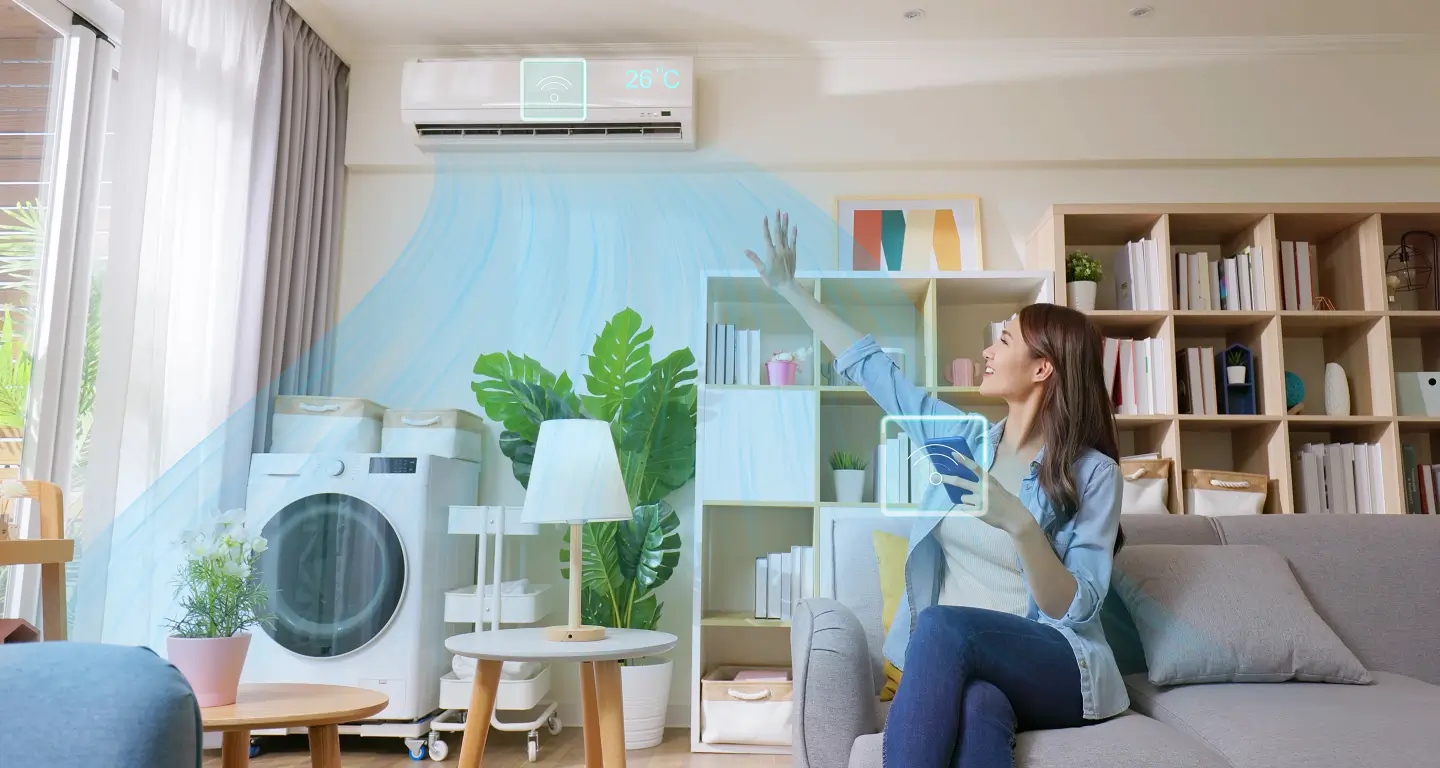
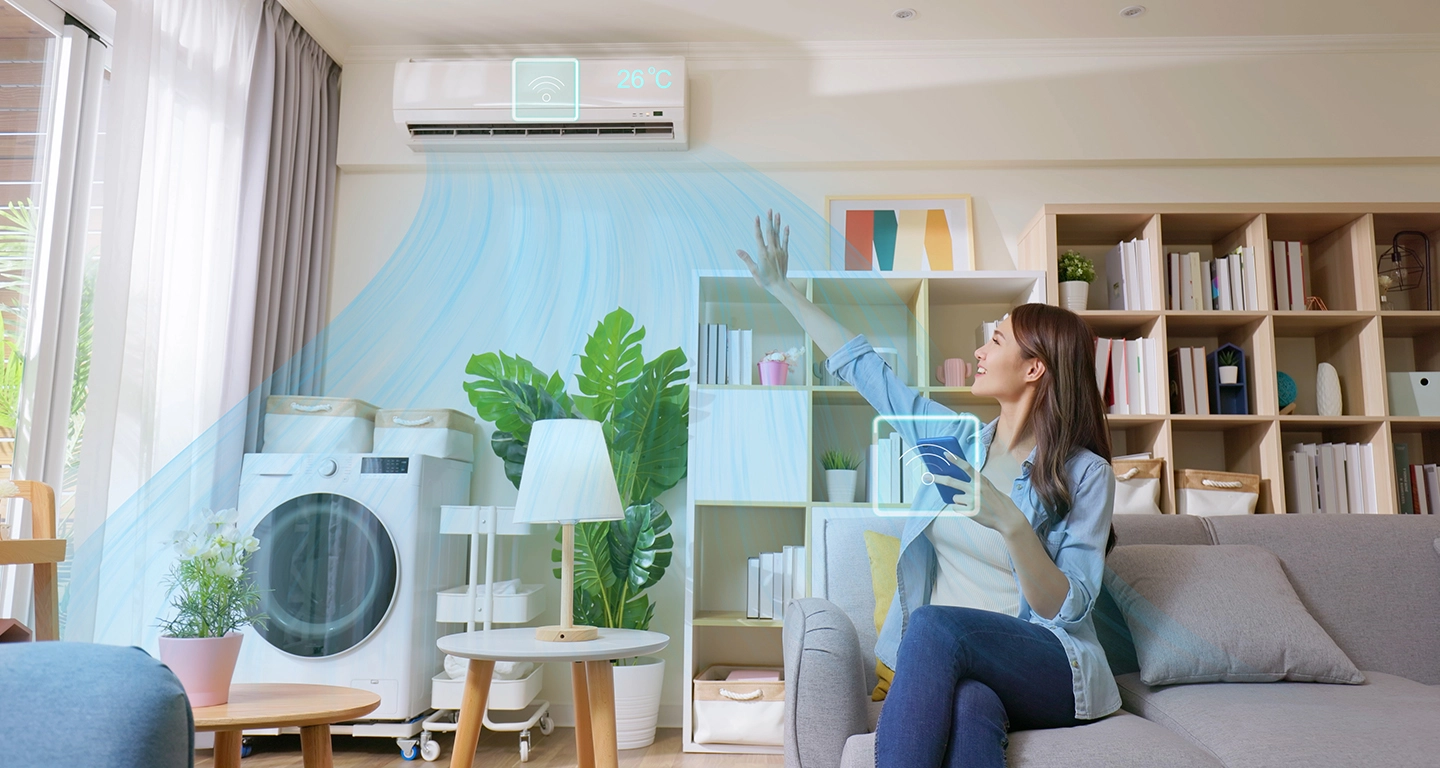
Added full hd home carousel bg!

diff --git a/src/components/HomeCarousel/HomeCarousel.jsx b/src/components/HomeCarousel/HomeCarousel.jsx
@@ -16,7 +16,7 @@ import 'swiper/css/effect-fade';
 import './HomeCarousel.css';
 
 // assets
-import airCondition from '../../assets/images/home-carousel-air-condition-1440x768.webp';
+import airCondition from '../../assets/images/home-carousel-air-condition-1920x1080.webp';
 import heatPump from '../../assets/images/home-carousel-heat-pump-1440x768.webp';
 
 // database

diff --git a/src/api/api.php b/src/api/api.php
@@ -1,3 +1,5 @@
+<!-- e-mail sending api - PLACE TO THE ROOT FOLDER ON SERVER -->
+
 <?php
 
   contact();
